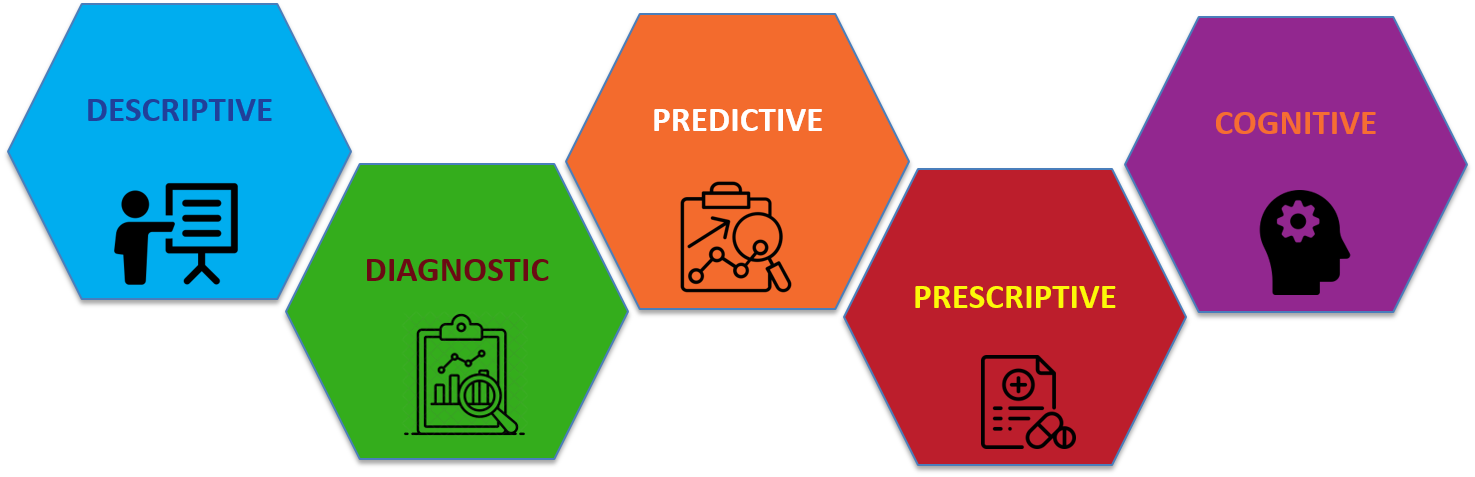
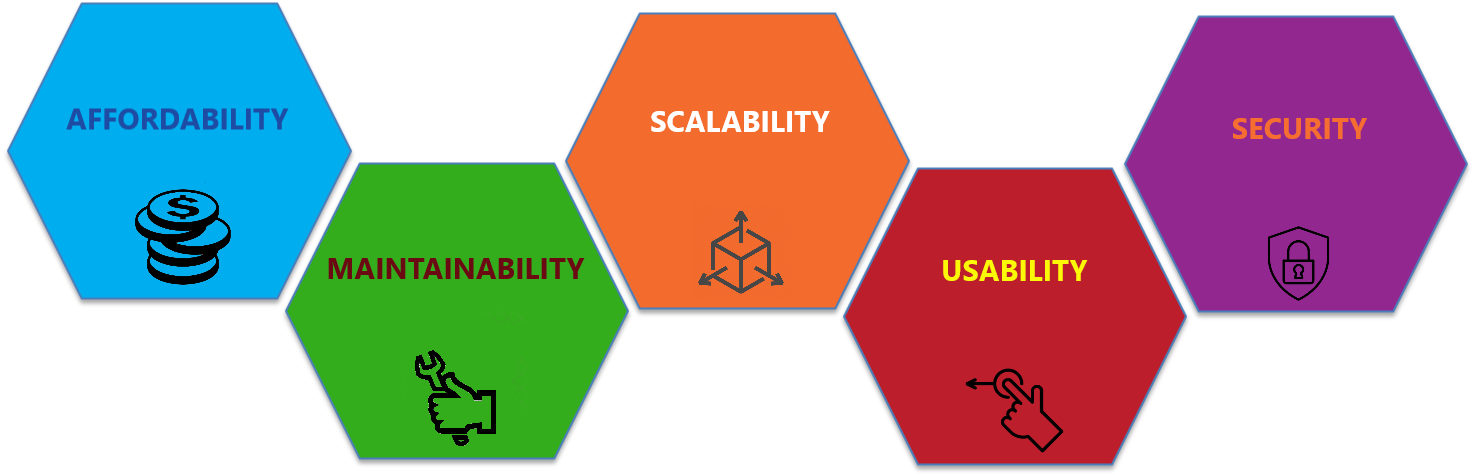
color navbar

diff --git a/production.html b/production.html
@@ -60,19 +60,19 @@
     <div id="collapsable-nav" class="collapse navbar-collapse">
       <ul id="nav-list" class="nav navbar-nav navbar-right">
         <li>
-          <a class="highlight" href="strategy.html">
+          <a class="highlight_b" href="strategy.html">
             <span class="glyphicon glyphicon-dashboard"></span><br class="hidden-xs">Strategise</a>
         </li>
         <li>
-          <a class="highlight" href="analysis.html">
+          <a class="highlight_g" href="analysis.html">
             <span class="glyphicon glyphicon-stats"></span><br class="hidden-xs">Analyse</a>
         </li>
         <li>
-            <a style="color:red">
+            <a style="color:rgb(243,107,45)">
               <span class="glyphicon glyphicon-road"></span><br class="hidden-xs">Productionise</a>
         </li>
         <li>
-          <a class="highlight" href="contact.html">
+          <a class="highlight_r" href="contact.html">
             <span class="glyphicon glyphicon-user"></span><br class="hidden-xs">Contact</a>
       </li>
 
@@ -97,32 +97,32 @@
           Furthermore, when providing services directly to your customers, it is essential that the look and feel of the application match the company values you wish to portray.
       </li>
     </ul>
-    <img src="images/production_cats.png" class="center">
+    <img src="images/webapp_cats.png" class="center">
     <p>
       Web Applications provide the perfect solution to both these issues but in order to be successful it is essential that they satisfy the following 5 core requirements . 
     </p>
     <ul>
-      <li><b>Affordability</b> - Avoid expensive licence fees by using freely available open-source tools </li>
-      <li><b>Maintainability</b> - Ensure code is well documented and written using popular, well supported languages</li>
-      <li><b>Scalability</b> - It is essential that solutions can grow to support your longer-term aspirations</li>
-      <li><b>Usability</b> - The user interface (UI) must be intuitive, engaging and provide the necessary data validation.</li>      
-      <li><b>Security</b> - Ensure that the application stores data securely and provides robust access and permission management</li>
+      <li><b>Affordability</b> - Avoid expensive licence fees by using freely available open-source tools.</li>
+      <li><b>Maintainability</b> - Ensure code is well documented and written using popular, well-supported, programming languages.</li>
+      <li><b>Scalability</b> - Solutions should be designed with growth in mind, ensuring they can continue to satisfy your longer-term digital aspirations.</li>
+      <li><b>Usability</b> - User interfaces (UI) must be intuitive, engaging and provide the necessary data validation.</li>      
+      <li><b>Security</b> - Data must be stored securely and robust access and permission management provided by the application.</li>
 
     </ul>
 
 
     <p>
-      On this page we discuss the methodologies and tools used by <span id="brand">EMPEDATA</span> to develop effective applications that satisfy all of the above criteria.
+      On this page we discuss the methodologies and tools used by <span id="brand">EMPEDATA</span> to develop effective applications that satisfy the above criteria.
 
       As with our <a href="./analysis.html">analytics</a> page, we also provide a <a href="#home-tiles">project portfolio</a> to show case solutions we have built and 
       a <a href="./skills.html">skills page</a> with links to a range of books, tutorials and articles to further your understanding of the topic.
     </p>
-    <p>On page we cover:</p>
+    <p>The main topics we cover here are:</p>
     <ul>
-      <li><a href="#WebApps">Designing an application</a> – An overview of web application architecture and development tools</li>
-      <li><a href="#DevOps">Effective development</a> - A brief overview of software development best practice</li>
-      <li><a href="#Data_Architecture">Structuring your data</a> – An understanding of how to store data and different types of database available</li>
-      <li><a href="#Hosting">Choosing a hosting environment</a> – Options for delivering your application to a wider community</li>
+      <li><a href="#WebApps">Designing an application</a> – Web application architecture and development tools.</li>
+      <li><a href="#DevOps">Effective development</a> - A brief overview of software development best practice.</li>
+      <li><a href="#Data_Architecture">Structuring your data</a> – How to store data and different types of database available.</li>
+      <li><a href="#Hosting">Choosing a hosting environment</a> – Options for delivering your application to a wider user community.</li>
     </ul>
 
 
@@ -130,17 +130,17 @@
       <h2>Designing an application</h2>
       <img src="images/MVC.png" class="smlscr_image right_image">
       <p>
-        Web Apps can provide the required functionality and secure data access to a variety of users through their web browser. 
-        The ability to avoid having to install specialist software on people's devices, allowing updates to be easily deployed and centralising the data store make 
-        Web Apps the ideal solution to satisfy the requirement of most data platforms. 
+        Web Apps can provide functionality and secure data access to a variety of users through their web browsers. 
+        The ability to avoid installing specialist software on people's devices, allowing updates to be easily deployed and centralising the data store make 
+        Web Apps the ideal data platform solution. 
       </p>
       <p>
-        For simple analytical applications the <a href="https://streamlit.io/" target="_blank">Streamlit</a> library enables web apps to be created entirely using Python
+        For simple analytical applications the <a href="https://streamlit.io/" target="_blank">Streamlit</a> library enables web apps to be created entirely using Python,
         without the need for separate front end web development, making them ideal for sharing analytical models amongst an internal team.
       </p>
       <p>
         For the majority of applications however, it will be necessary to develop a user interface using a combination of HTML, CSS and JavaScript.
-        A Model View Controller (MVC) architecture, provides separation of concerns between three elements provides and gives an appropriate balance between complexity and control:
+        A Model View Controller (MVC) architecture an appropriate balance between complexity and control by introducing some separation of concerns between the three core elements :
       </p>
       <ul>
         <li><b>Model</b> - The backend that contains all the data logic.</li>
@@ -150,20 +150,20 @@
       
       <p>
         Our preferred web development framework for server-side applications is <a href="https://www.djangoproject.com/">Django</a>.
-        Django is a Python library making integration with existing analytical / machine learning models it also provides built-in functionality such as admin panels, 
+        Django is a Python library, simplifying the integration with existing analytical / machine learning models and provides built-in functionality such as admin panels, 
         file upload support, authentication, comment boxes, contact forms and app management which all significantly reduce the time and effort required to build robust 
         web applications.</li>
       </p>
       <p>
-        In some circumstances if can be beneficial to further separate the UI and data processing and storage element of the application using an Application Programming Interfaces (API's). 
-        APIs allow a programme to be broken into distinct services that communicate with other services allowing the benefits of the seperate languages to be realised and
-        developed in parallel with minimal risk of unintended consequences so long as the interfaces 
-        between services are maintained. To support this approach Django also provides a versatile toolkit for constructing web APIs 
+        In some circumstances if can be beneficial to further separate the UI and data processing and storage element of the application using an Application Programming Interface (API). 
+        APIs allow a programme to be broken into distinct services that communicate with other services allowing the separate sections to be developed in parallel with minimal risk of unintended consequences, so long as the interfaces 
+        between services are maintained. To support this approach Django also provides a versatile toolkit for constructing web APIs. 
       </p>
       <p>
-        The frontend (client-side) functionality of web application is provuded using JavaScript for which a variery of frameworks exist to provide predefined functionality and templates to save developers a lot of time 
-        The most popular Javascript framework at present is <a href="https://reactjs.org/">React</a>, developed by Facebook.  React creates a single page application populated using data transfered via requests to the Django backend.
-        One of the strongest features of React is the focus on developing common, reusable UI components to deliver engaging and intuitive user interfaces and ensure consitancy across applications. 
+        The frontend (client-side) functionality of web application is provided using JavaScript for which a variety of frameworks exist.  
+        These frameworks enable developers to take advantage of existing functionality and templates, reducing development time and increasing software quality.
+         <a href="https://reactjs.org/">React</a> is currently the most used front-end web application framework and focuses on developing common, reusable UI components to deliver engaging 
+        and intuitive user interfaces and ensure consistency across applications.
       </p>        
     </div>
     <br>
@@ -179,7 +179,7 @@
       </p>
       <p>
         At its heart DevOps is about creating flow between the various process stages, represented by a figure of eight.
-        Through improving communication and feedback, identifing issues early and automating processes where possible to provide the team the best possible chance of success.
+        Through improving communication and feedback, identifying issues early and automating processes where possible to provide the team the best possible chance of success.
       </p> 
       <p>We outline a few key concepts that should be understood, however for a more comprehensive account of DevOps practices refer to 
         <a href="https://itrevolution.com/the-devops-handbook/"  target="_blank">The DevOps Handbook</a>.
@@ -201,8 +201,8 @@
         </li>
         
         <li><b>Code Formatting</b>  While software doesn’t care how the code looks, other developers who may have to work on it in the future 
-          certainly do. When everyone is writing code that looks the same, it becomes easier to underand and ammend.  Using opinionated formatting tools 
-          can  styling enforce rules to simplify the process of writing well structured code.</li>
+          certainly do. When everyone is writing code that looks the same, it becomes easier to understand and amend.  Using opinionated formatting tools 
+          can  styling enforce rules to simplify the process of writing well-structured code.</li>
         <li><b>Testing</b> - is fundamental to ensure good quality code is being written and allows changes to be quickly validated.  The main types of testing used are:
           <ul>
             <li>Unit Testing - refers to taking a component of a program and testing it in isolation, these tests can then be 
@@ -233,12 +233,12 @@
       </p>
       <p>Having created a <b>Data Lake</b>, it will become apparent that different, contradictory, versions of the same data exist necessitating significant work
         to convert it into a format suitable for analysis. To manage this situation it is necessary to create a process to extract the data from multiple sources, 
-        transform it into a cleaned format and load load it into a structured database, called a <b>Data Warehouse</b>.  This process of transforming the date so 
-        that it is optimised for specific business purpose is commonly referd to as an ETL process.
+        transform it into a cleaned format and load it into a structured database, called a <b>Data Warehouse</b>.  This process of transforming the date so 
+        that it is optimised for specific business purpose is commonly referred to as an ETL process.
       </p>
       <p>The problem arises, as new unstructured data needs to be ingested into the <b>Data Warehouse</b>. 
-        The solution is build an application, as defined above, to collect and validate the data at the point of entry This data is then stored in a dedicated database, 
-        known as a <b>Data Mart</b>, which in tern forms a component of the wider <b>Data Warehouse</b> capablity. Depending on the data requirements of the application the <b>Data Mart</b> 
+        The solution is to build an application, as defined above, to collect and validate the data at the point of entry This data is then stored in a dedicated database, 
+        known as a <b>Data Mart</b>, which in turn forms a component of the wider <b>Data Warehouse</b> capability. Depending on the data requirements of the application the <b>Data Mart</b> 
         can be considered as either:
       </p>
       <ul>
@@ -263,14 +263,17 @@
           rose to prominence with the growth of network analytics, as used extensively by Facebook and Google. 
         </li>          
       </ul>
-      <p>In terms of selecting a database to use we again look to satisfy the success criteria as originally outlined.  Our recommendation for nearly all applications is to use
-        <a href="https://www.postgresql.org/">PostgreSQL</a> which is a highly capable open-sourcedatabase that supports a wide variety of data types. It
-        provides integrity controls to prevent invalid or orphan records and powerful indexing methods to optimise performance, advanced features such as full-text search 
-         and the ability to store non-relational data such as JSON and XML formats which enables PostgreSQL to also satisfy the demands of all but the most speciallist applications.
+      <p> 
+        Our choice of database when building web application is a combination of <a href="https://www.postgresql.org/">PostgreSQL</a> and <a href="https://neo4j.com/">Neo4j</a>
+        These products both satisfy the 5 criteria of tool selection outlined at the top of this page  and can be easily integrated into your Django applications to form part 
+        of your wider <b>Data Warehouse</b> capability.
       </p>
       <p>
-         Both PostgreSQL and Neo4j can be easily integrated into your Django applications and form part of your wider <b>Data Warehouse</b> capability.
+        PostgreSQL is traditionally considered as a highly capable open-source relational database although recent enhancements have enabled it to be used to store non-relational
+         data such as JSON and XML formats. Additional strength includes integrity controls that can prevent invalid or orphan records, a powerful indexing method to optimise
+          performance and advanced features such as full-text search.  
       </p>
+
     </div>
     <br>
 

diff --git a/analysis.html b/analysis.html
@@ -55,19 +55,19 @@
       <div id="collapsable-nav" class="collapse navbar-collapse">
         <ul id="nav-list" class="nav navbar-nav navbar-right">
           <li>
-            <a class="highlight" href="strategy.html">
+            <a class="highlight_b" href="strategy.html">
               <span class="glyphicon glyphicon-dashboard"></span><br class="hidden-xs">Strategise</a>
           </li>
           <li>
-            <a style="color:orange">
+            <a style="color:rgb(52,173,28)">
               <span class="glyphicon glyphicon-stats"></span><br class="hidden-xs">Analyse</a>
           </li>
           <li>
-              <a class="highlight" href="production.html">
+              <a class="highlight_o" href="production.html">
                 <span class="glyphicon glyphicon-road"></span><br class="hidden-xs">Productionise</a>
           </li>
           <li>
-            <a class="highlight" href="contact.html">
+            <a class="highlight_r" href="contact.html">
               <span class="glyphicon glyphicon-user"></span><br class="hidden-xs">Contact</a>
         </li>
 
@@ -82,19 +82,19 @@
     <p>Analytics is the art of converting data into information that has the power to transform how your business operates.  
       The types of analytical capabilities that can be created include:<p>
     <ul>
-      <li><b>Descriptive</b> - Generally delivered through a dashboard, descriptive analytics enable you report on, and understand, what has happened.</li>
-      <li><b>Diagnostic</b> - Leveraging statistical analysis diagnostics enables you to better understand the root cause of an event.</li>
+      <li><b>Descriptive</b> - Generally delivered through a dashboard, descriptive analytics enable you report on what has happened.</li>
+      <li><b>Diagnostic</b> - Leveraging statistical analysis diagnostics enable you to better understand the root cause of an event.</li>
       <li><b>Predictive</b> - Predictive analytics uses historic data to forecast what is likely to occur in the future.</li>
-      <li><b>Prescriptive</b> - Taking this a step further, prescriptive analytics begins to suggest the optimal action to achieve the desired outcome.</li>
-      <li><b>Cognitive</b> - Taking the human out of the loop, cognitive analytics learns what actions to take to achieve a stated objective based on defined reward mechanism.</li>
+      <li><b>Prescriptive</b> - Taking this a step further, prescriptive analytics suggest the optimal action to be taken to achieve a desired outcome.</li>
+      <li><b>Cognitive</b> - Taking the human out of the loop, cognitive analytics learn what actions to take to achieve a stated objective based on defined reward mechanism.</li>
     </ul>
     <img src="images/analytics_cats.png" class="center">
     <br/>   
     <p>
       We know every business needs to see return on investment and it is therefore essential to demonstrate that your digital transformation can deliver value fast!
       The <span id="brand">EMPEDATA</span> capability demonstration package is the perfect way to get started.
-      Delivered over 4 weeks this affordable package will provide a key capability to your business and serves
-        as the ideal catalyst to launch your wider digital transformation aspirations.
+      Delivered over 4 weeks this affordable package will provide a key capability to your business, which can then be used        
+      as a catalyst to launch your wider digital transformation aspirations.
     </p>  
       <ul>
         <li><b>Week 1</b> - Working closely with you to scope a business opportunity, identify potential data sources and document an agreed set of success criteria.</li>
@@ -104,13 +104,13 @@
       </ul>
 
     <p>
-      In the following sections we provide a brief introduction to each of the 4 main analytical analysis categories, as well as a <a href="#home-tiles">project portfolio</a> 
-      to showcase examples</p>
+      In the following sections we provide a brief introduction to each of the 4 main categories of analytical tools, as well as providing a <a href="#home-tiles">project portfolio</a> 
+      to showcase genuine use cases.</p>
     <p>
       
     </p>
     <p>
-      If you'd like to discuss more about developing analytical skills in your business, or to take up the offer of the <span id="brand">EMPEDATA</span> capability demonstration package
+      If you'd like to to take up the offer of the <span id="brand">EMPEDATA</span> capability demonstration package or discuss more about developing analytical skills in your business
       please <a href="./contact.html">get in touch</a>.  Alternatively check out the <a href="./skills.html">skills page</a> for a curated list of books, online tutorials and articles
       to provide a more comprehensive understanding of the topic.</p>
     </p>
@@ -210,9 +210,9 @@
         <li><b>Recurrent Neural Networks</b> - Analyse sequences of data and are used extensively for language processing and applications to interpret streamed IOT sensor data.  Pretrained libraries 
           such as <a href="https://spacy.io/">Spacy</a> provide powerful pretrained models that can be used to identify different parts of speech, sentiment and word similarity
           directly of a given piece of text.</p>
-          <li><b>Reinforcement Learning</b> - Is a behavioural machine learning model that instead of being trained using sample data learns to maximise reward using trial and error. 
-            As the algorithm progressively learns the sequences that return the most successful outcomes to devise an optimal policy for a given problem.</li>  
-        <li><b>Generative Adversarial Networks</b> - discover and learn the regularities or patterns in input data in such a way that the model can be 
+          <li><b>Reinforcement Learning</b> - Is a behavioural machine learning model that, instead of being trained using sample data, learns to maximise reward through experimentation. 
+            As the algorithm progressively learns the sequence of behaviours that return the most successful outcomes it devises a policy to deliver the optimal responce to a given situation.</li>  
+        <li><b>Generative Adversarial Networks</b> - Discover and learn the regularities or patterns in input data in such a way that the model can be 
           used to generate new examples that plausibly could have been drawn from the original dataset.  This technique has been used to translate photographs across domains, 
           such as day to night or summer to winter, generate high-resolution versions of input images or even create new music, images and texts in the style of a particular artist.
         </li>     

diff --git a/strategy.html b/strategy.html
@@ -59,19 +59,19 @@
       <div id="collapsable-nav" class="collapse navbar-collapse">
         <ul id="nav-list" class="nav navbar-nav navbar-right">
           <li>
-            <a style="color:greenyellow">
+            <a style="color:rgb(0,173,239)">
               <span class="glyphicon glyphicon-dashboard"></span><br class="hidden-xs">Strategise</a>
           </li>
           <li>
-            <a class="highlight" href="analysis.html">
+            <a class="highlight_g" href="analysis.html">
               <span class="glyphicon glyphicon-stats"></span><br class="hidden-xs">Analyse</a>
           </li>
           <li>
-              <a class="highlight" href="production.html">
+              <a class="highlight_o" href="production.html">
                 <span class="glyphicon glyphicon-road"></span><br class="hidden-xs">Productionise</a>
           </li>
           <li>
-            <a class="highlight" href="contact.html">
+            <a class="highlight_r" href="contact.html">
               <span class="glyphicon glyphicon-user"></span><br class="hidden-xs">Contact</a>
         </li>
 

diff --git a/index.html b/index.html
@@ -56,19 +56,19 @@
     <div id="collapsable-nav" class="collapse navbar-collapse">
       <ul id="nav-list" class="nav navbar-nav navbar-right">
         <li>
-          <a class="highlight" href="strategy.html">
+          <a class="highlight_b" href="strategy.html">
             <span class="glyphicon glyphicon-dashboard"></span><br class="hidden-xs">Strategise</a>
         </li>
         <li>
-          <a class="highlight" href="analysis.html">
+          <a class="highlight_g" href="analysis.html">
             <span class="glyphicon glyphicon-stats"></span><br class="hidden-xs">Analyse</a>
         </li>
         <li>
-            <a class="highlight" href="production.html">
+            <a class="highlight_o" href="production.html">
               <span class="glyphicon glyphicon-road"></span><br class="hidden-xs">Productionise</a>
         </li>
         <li>
-          <a class="highlight" href="contact.html">
+          <a class="highlight_r" href="contact.html">
             <span class="glyphicon glyphicon-user"></span><br class="hidden-xs">Contact</a>
       </li>
 

diff --git a/contact.html b/contact.html
@@ -55,19 +55,19 @@
     <div id="collapsable-nav" class="collapse navbar-collapse">
       <ul id="nav-list" class="nav navbar-nav navbar-right">
         <li>
-          <a class="highlight" href="strategy.html">
+          <a class="highlight_b" href="strategy.html">
             <span class="glyphicon glyphicon-dashboard"></span><br class="hidden-xs">Strategise</a>
         </li>
         <li>
-          <a class="highlight" href="analysis.html">
+          <a class="highlight_g" href="analysis.html">
             <span class="glyphicon glyphicon-stats"></span><br class="hidden-xs">Analyse</a>
         </li>
         <li>
-            <a class="highlight" href="production.html">
+            <a class="highlight_o" href="production.html">
               <span class="glyphicon glyphicon-road"></span><br class="hidden-xs">Productionise</a>
         </li>
         <li>
-          <a style="color:purple">
+          <a style="color:rgb(188,30,44)">
             <span class="glyphicon glyphicon-user"></span><br class="hidden-xs">Contact</a>
       </li>
 

diff --git a/css/style.css b/css/style.css
@@ -67,10 +67,26 @@ body {
     color: white;
     text-align: center;
   }
-  #nav-list .highlight:hover {
-    background: rgb(65, 190, 234);
-    color: rgb(40, 40, 40);
+  #nav-list .highlight_b:hover {
+    background: rgb(0,173,239);
+    color: rgb(30,75,163);
   }
+
+  #nav-list .highlight_g:hover {
+    background: rgb(52,173,28);
+    color: rgb(108,10,20);
+  }
+
+  #nav-list .highlight_o:hover {
+    background: rgb(243,107,45);
+    color: rgb(255,255,255);
+  }
+
+  #nav-list .highlight_r:hover {
+    background: rgb(188,30,44);
+    color: rgb(252,249,8);
+  }
+
   #nav-list a span {
     font-size: 1.8em;
   }
